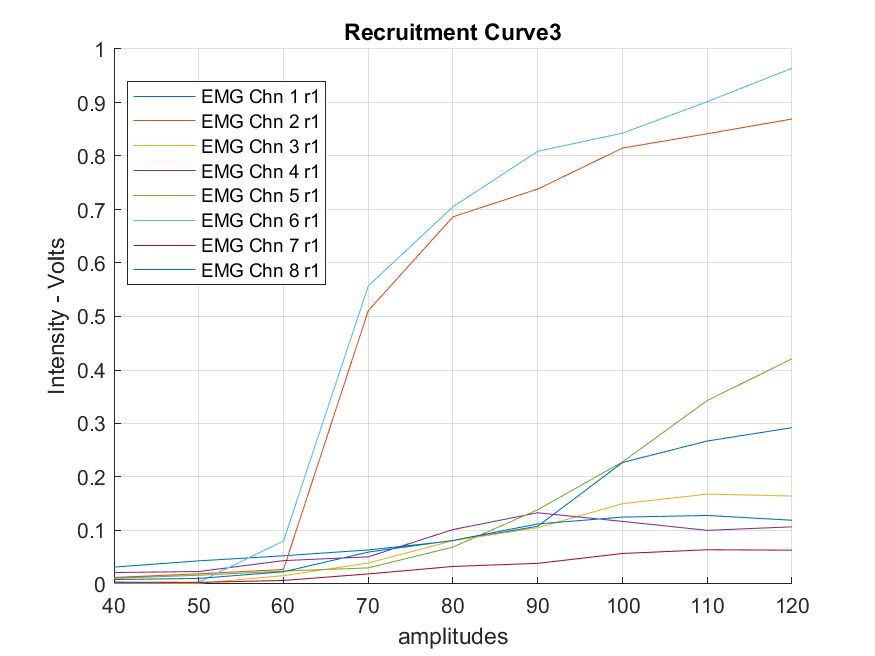
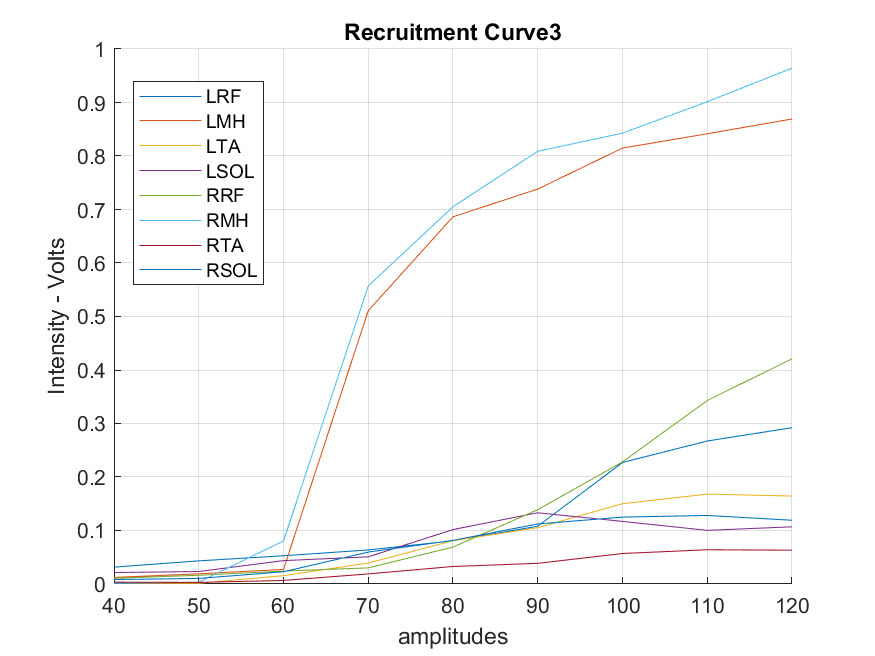
PlotRC updated

Changed region(s): [[0.216, 0.122, 0.3703, 0.4268]]

diff --git a/PlotRC.m b/PlotRC.m
@@ -6,6 +6,8 @@ function confirmation = PlotRC(data, data_range, repetition, bool_normalize,bool
     % repetition: integer, how many times should I plot the data_range of
     %amplitudes, since I put the amplitudes across 3 trials in the same
     %struct
+    % TODO: repeace range & repetition with something less convoluted 
+
     % bool_normalize: whether or not to normalize, data to the largest response of the muscle across stimulation locations -->  i.e., the global maximum across all stimulation locations of RRF would be 1 and the global minimum would be 0, everything else would be scaled accordingly.
 
      %DEbug, bool_global_normalization: normalize all data together --> the shape of the plot should look the same as unnormalized 
@@ -14,24 +16,25 @@ function confirmation = PlotRC(data, data_range, repetition, bool_normalize,bool
      % in less stimulated muscles are exaggerrated
 
      str_normalize = "";
-     str_global = "";     
+     str_global = "";   
+     data_width = width(data);
 
      %Global normalization
      if bool_normalize 
          str_normalize = "normalized";
          if bool_global_normalization
              str_global = "globally";
-             to_normalize = data{:, 2:9};
+             to_normalize = data{:, 2:data_width};
             
             % Normalize across all columns as a single unit (min-max normalization)
             normalizedData = (to_normalize - min(to_normalize, [], 'all')) / (max(to_normalize, [], 'all') - min(to_normalize, [], 'all'));
             
             % Assign normalized values back to the table
-            data{:, 2:9} = normalizedData;
+            data{:, 2:data_width} = normalizedData;
 
          else 
             str_global = "permuscle";
-            data{:,2:9} = normalize(data{:, 2:9}, 'range'); %TODO: parameterize the number of columns
+            data{:,2:data_width} = normalize(data{:, 2:data_width}, 'range'); %TODO: parameterize the number of columns
          end
 
         % for col = 2:9
@@ -49,7 +52,7 @@ function confirmation = PlotRC(data, data_range, repetition, bool_normalize,bool
 
 
         curr_range = (1:data_range) + data_range * (r-1) ;
-        x = data.str(curr_range);
+        x = data{curr_range,1};
         
         
         tab10 = [
@@ -69,10 +72,10 @@ function confirmation = PlotRC(data, data_range, repetition, bool_normalize,bool
             % channel = outr1.("EMG_Chn_" + i + "_r1")
             % plot(x, channel, ....)   
         
-        for i = 1:8 % TODO: change this st. it just goes through each column one by one
-            channel = data.("EMG_Chn_" + i + "_r1"); %TODO: change this so that it just loops through each column
-            channel = channel(curr_range);
-            plot(x, channel, "DisplayName","EMG Chn " + i + " r1"); % TODO: change dispalyname to be the column name
+        for i = 2:data_width % TODO: change this st. it just goes through each column one by one
+            channel = data{curr_range,i}; %TODO: change this so that it just loops through each column
+            % channel = channel(curr_range);
+            plot(x, channel, "DisplayName",data.Properties.VariableNames{i}); % DONE: change dispalyname to be the column name
         end
         % As such, the data structure must treat each channel as a separate object
         

diff --git a/AutomationDraft.m b/AutomationDraft.m
@@ -16,8 +16,9 @@ bool_normalize = 1;
     file_name = '20240826_RTA006_EPA1_RC ONLY'; % Add a function that 
 % end
 path = [cd, '\Input\', file_name];
-% Channels_to_use: allows choice of whcih channels to process; default to
+% channels_to_use: allows choice of whcih channels to process; default to
 % all channels other than 1&2
+channels_to_use = 3:10;
 
 fprintf(['\n ===== Opening file ' file_name ' with Alex Chart =====\n\n'] );
 
@@ -115,7 +116,7 @@ for i = 1:numel(filteredComments)
         x = filteredComments(i);
 %For each stimulation under the amplitude
 %   Find in data{record}, the max - min in the area tick+130 to tick+230
-        % TODO: parameterize 3:10, which stands for the channels
+        % DONE: parameterize 3:10, which stands for the channels
         windowsr1 = Data{x.record}(3:10, x.tick_position+R1_delay:x.tick_position+R2_delay);
         maxminr1 = max(windowsr1, [],2) - min(windowsr1,[],2);
 
@@ -166,6 +167,13 @@ end
 %filter array to only have amplitude left
 %TODO, change the name output here 
 output = filteredComments(arrayfun(@(x) isnumeric(x.str), filteredComments));
+
+%Sanity check
+% if len(output.averager1) == len(channels_to_use)
+
+% else fprintf('\n ERROR! Mismatch between channels \n\n')
+
+% end
 clearvars lastamp
 
 %% Data cleaning
@@ -176,8 +184,11 @@ fprintf('\n ===== Calculation complete, preparing output =====\n\n' );
 % DONE: Clean up output, s.t. it only contains info we need 
 
 %Calculate average  & store into new struct 
-newstructr1 = struct( 'str', {output.str});
-newstructr2 = struct( 'str', {output.str});
+channel_names = string({channel_meta(3:10).name});
+
+
+newstructr1 = struct( 'amps', {output.str});
+newstructr2 = struct( 'amps', {output.str});
 
 
 for i = 1:numel(output)
@@ -190,8 +201,8 @@ for i = 1:numel(output)
 
         % TODO: add checks to include other information
 
-        newstructr1(i).("EMG_Chn_" + int2str(j) + "_r1") = output(i).averager1(j);
-        newstructr2(i).("EMG_Chn_" + int2str(j) + "_r2") = output(i).averager2(j);
+        newstructr1(i).(channel_names(j)) = output(i).averager1(j);
+        newstructr2(i).(channel_names(j)) = output(i).averager2(j);
     end
 end 
 
